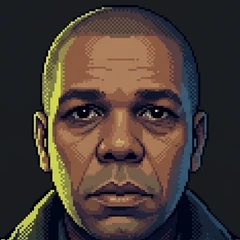
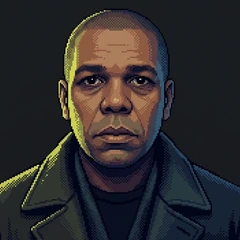
Retrato mais afastado e troca de quadros sem piscar branco
Claude-Session: https://claude.ai/code/session_01EDVf1EFUhdHmvNwVV18pfV

diff --git a/index.html b/index.html
@@ -237,7 +237,7 @@ let dq=Promise.resolve();
 function say(who,txt){dq=dq.then(()=>show(who,txt));return dq}
 function show(who,txt){let held=null;const pa=portAnim(who,txt);if(who){anim(who);const el=document.querySelector(`.spr[data-id="${who}"]`);if(el&&el._anim){held=el;el._hold=ANIMS[el._anim].talk;el.src=IMG(el._hold)}}
   return new Promise(r0=>{const res=()=>{if(held)held._hold=null;pa();r0()};const d=$('#dlg');d.classList.toggle('narr',!who);const p=$('#por');
-  if(who&&['guilherme','nathalia','pedro','sarah','helena','marlene','plantonista','izabel'].includes(who)){p.className='';p.style.backgroundImage=`url(${IMG('p_'+who)})`}else p.className='none';
+  p.innerHTML='';if(who&&['guilherme','nathalia','pedro','sarah','helena','marlene','plantonista','izabel'].includes(who)){p.className='';p.style.backgroundImage=`url(${IMG('p_'+who)})`}else p.className='none';
   $('#dname').textContent=who?PERS[who]:'';$('#dname').style.display=who?'block':'none';$('#dline').textContent=who?'"'+txt+'"':txt;d.classList.add('on');dlgResolve=res})}
 const narr=t=>say(null,t);
 const G=t=>say('guilherme',t);
@@ -555,10 +555,11 @@ async function runAnim(el){await sleep(Math.random()*1200);while(el.isConnected)
 /* retratos animados */
 const PORT={guilherme:{base:'pg0',blink:['pg1'],talk:['pg2','pg3','pg2','pg0','pg3','pg2','pg0']}};
 Object.values(PORT).forEach(p=>[p.base,...p.blink,...p.talk].forEach(n=>{const im=new Image();im.src=IMG(n)}));
-function portAnim(who,txt){const P=PORT[who];if(!P)return()=>{};const el=$('#por');let alive=true;const set=n=>{if(alive)el.style.backgroundImage=`url(${IMG(n)})`};
-  (async()=>{await sleep(30);const end=performance.now()+Math.min(3200,txt.length*48);let i=0;while(alive&&performance.now()<end){set(P.talk[i++%P.talk.length]);await sleep(140)}set(P.base);
+function portAnim(who,txt){const P=PORT[who];if(!P)return()=>{};const el=$('#por');let alive=true;
+  const names=[...new Set([P.base,...P.blink,...P.talk])];let imgs=[];const set=n=>{if(!alive)return;imgs.forEach(i=>i.style.visibility=i.dataset.n===n?'visible':'hidden')};
+  (async()=>{await sleep(0);if(!alive)return;el.innerHTML=names.map(n=>`<img data-n="${n}" src="${IMG(n)}" style="position:absolute;inset:0;width:100%;height:100%;image-rendering:pixelated;visibility:${n===P.base?'visible':'hidden'}">`).join('');el.style.position='relative';imgs=[...el.querySelectorAll('img')];await sleep(30);const end=performance.now()+Math.min(3200,txt.length*48);let i=0;while(alive&&performance.now()<end){set(P.talk[i++%P.talk.length]);await sleep(140)}set(P.base);
     while(alive){await sleep(2200+Math.random()*2800);if(!alive)break;for(const f of P.blink){set(f);await sleep(120)}set(P.base)}})();
-  return()=>{alive=false}}
+  return()=>{alive=false;el.innerHTML=''}}
 /* Guilherme parado: gestos */
 const GANC={gia:.535,gib:.578,gic:.571};let gTok=0;
 const GSEQ={

diff --git a/sw.js b/sw.js
@@ -1,4 +1,4 @@
-const V='pecados-v5';
+const V='pecados-v6';
 const FILES=["./", "index.html", "manifest.webmanifest", "icon-192.png", "icon-512.png", "apple-touch-icon.png", "batidas.mp3", "bau.mp3", "bauaberto.webp", "cafe.mp3", "capela.mp3", "capeladentro.webp", "capelafora.webp", "casa-vo.mp3", "casafora.webp", "chuva-dentro.mp3", "chuva.mp3", "dano.mp3", "degrau.mp3", "delegacia.mp3", "delegacia.webp", "g_legL.webp", "g_legR.webp", "g_torso.webp", "gia0.webp", "gia1.webp", "gia2.webp", "gia3.webp", "gia4.webp", "gia5.webp", "gib0.webp", "gib1.webp", "gib2.webp", "gib3.webp", "gib4.webp", "gib5.webp", "gib6.webp", "gic0.webp", "gic1.webp", "gic2.webp", "gic3.webp", "gic4.webp", "gic5.webp", "gic6.webp", "guilherme.webp", "gw0.webp", "gw1.webp", "gw2.webp", "gw3.webp", "gw4.webp", "gw5.webp", "helena.webp", "i_bilhete.webp", "i_corda.webp", "i_dinheiro.webp", "i_ficha.webp", "i_isqueiro.webp", "i_nota.webp", "i_petisco.webp", "i_vela.webp", "i_velaacesa.webp", "isqueiro.mp3", "izabel.webp", "latido.mp3", "marlene.webp", "musica.mp3", "nathalia.webp", "nori0.webp", "nori1.webp", "nori2.webp", "ns0.webp", "ns1.webp", "ns2.webp", "ns3.webp", "p_guilherme.webp", "p_helena.webp", "p_izabel.webp", "p_marlene.webp", "p_nathalia.webp", "p_pedro.webp", "p_plantonista.webp", "p_sarah.webp", "parede.webp", "passos-madeira.mp3", "passos-rua.mp3", "pd0.webp", "pd1.webp", "pd2.webp", "pd3.webp", "pd4.webp", "pd5.webp", "pedro.webp", "pegar.mp3", "pg0.webp", "pg1.webp", "pg2.webp", "pg3.webp", "pg4.webp", "pg5.webp", "pista.mp3", "plantonista.webp", "porao.mp3", "porao.webp", "porta.mp3", "portao.mp3", "praia.mp3", "redacao.mp3", "redacao.webp", "rosnado.mp3", "rua.webp", "sala.webp", "sala_raio.webp", "sarah.webp", "sebo.webp", "sino.mp3", "sussurros.mp3", "susto.mp3", "taxi.mp3", "telefone.mp3", "tiana0.webp", "tiana1.webp", "tiana2.webp"];
 self.addEventListener('install',e=>{e.waitUntil(caches.open(V).then(c=>c.addAll(FILES)).then(()=>self.skipWaiting()))});
 self.addEventListener('activate',e=>{e.waitUntil(caches.keys().then(ks=>Promise.all(ks.filter(k=>k!==V).map(k=>caches.delete(k)))).then(()=>self.clients.claim()))});
